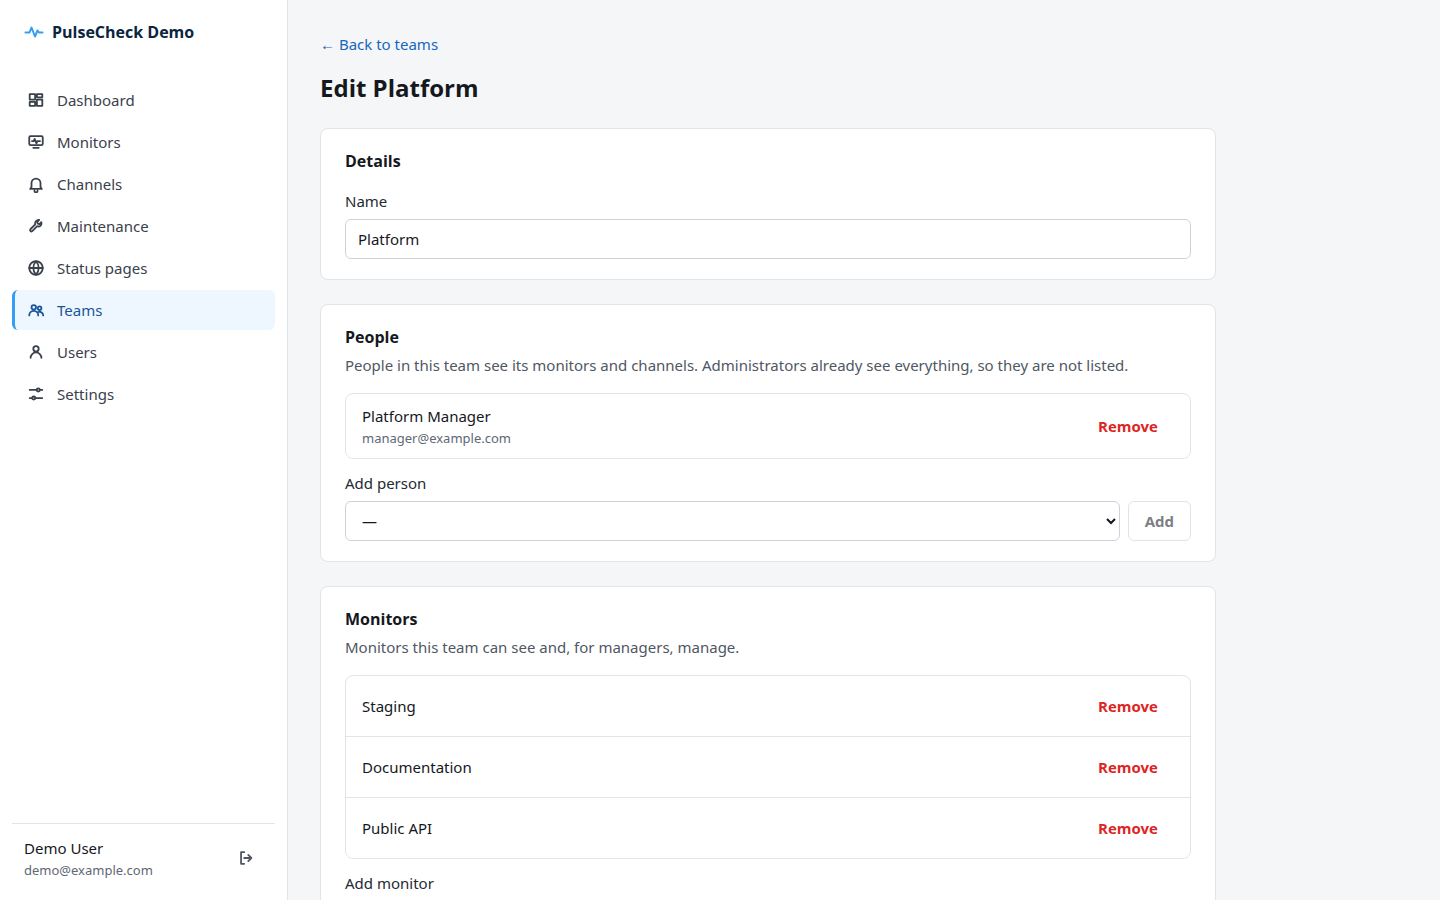
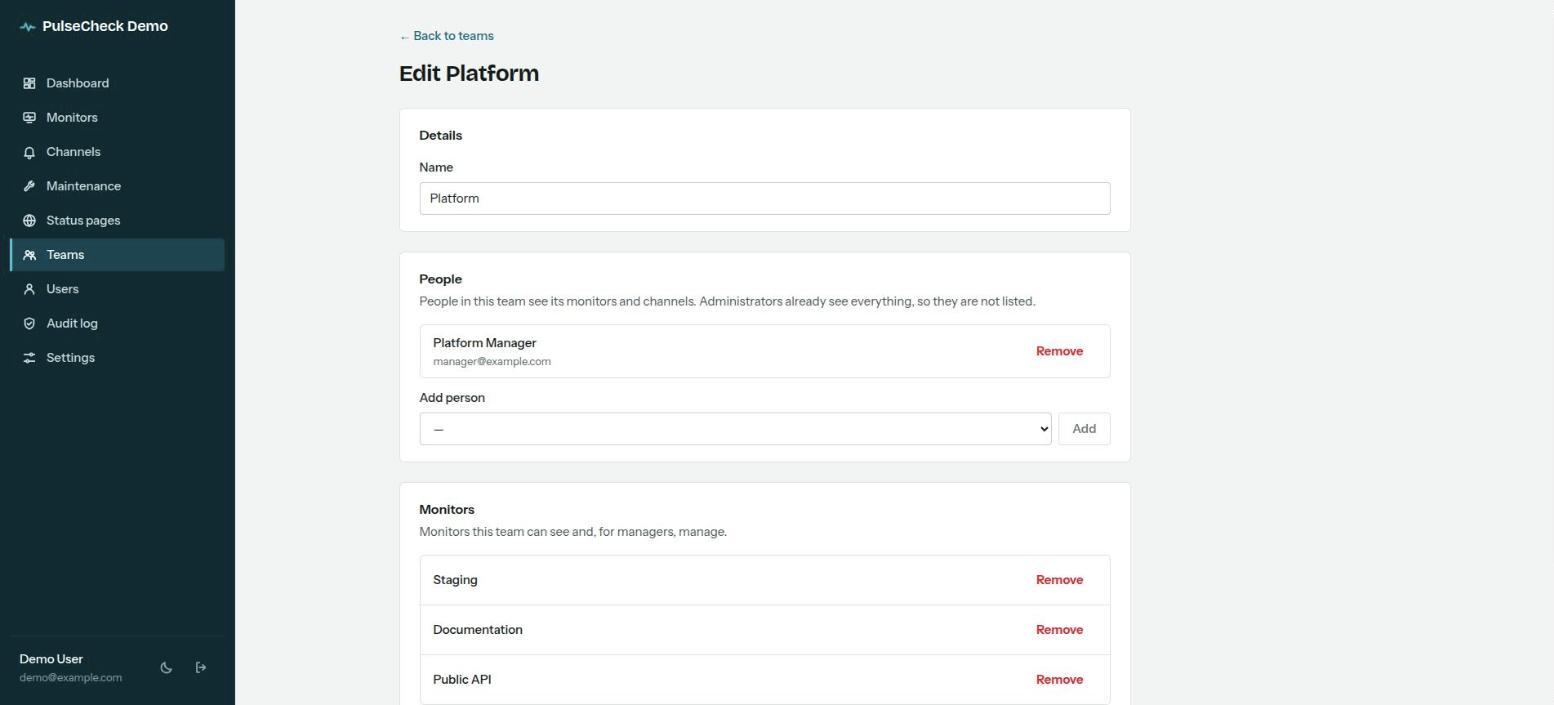
fix: primeira consolidação horária cobre o histórico retido e screenshots novas
Com a tabela horária vazia, a consolidação olhava só as últimas três horas
e os gráficos de 7 e 30 dias do dashboard ficavam quase vazios depois de
instalar ou atualizar. As screenshots do README passam a mostrar a nova
identidade visual, e o arquivo de heartbeat do scheduler, versionado por
engano, volta a ser ignorado.

diff --git a/back/tests/Feature/Dashboard/RollUpHourlyStatsTest.php b/back/tests/Feature/Dashboard/RollUpHourlyStatsTest.php
@@ -48,6 +48,20 @@ class RollUpHourlyStatsTest extends TestCase
         $this->assertSame(290, $row->p95_latency_ms);
     }
 
+    public function test_first_run_rolls_up_every_closed_hour_still_in_history(): void
+    {
+        $monitor = Monitor::factory()->create();
+        $this->checkAt($monitor, CarbonImmutable::parse('2026-10-12 08:30:00'));
+        $this->checkAt($monitor, CarbonImmutable::parse('2026-10-18 10:30:00'));
+
+        $this->artisan('metrics:rollup')->assertSuccessful();
+
+        $this->assertSame(
+            ['2026-10-12 08:00:00', '2026-10-18 10:00:00'],
+            MonitorHourlyStat::query()->orderBy('hour')->get()->map(fn ($row) => $row->hour->utc()->format('Y-m-d H:i:s'))->all(),
+        );
+    }
+
     public function test_running_again_recomputes_the_hour_without_duplicating(): void
     {
         $monitor = Monitor::factory()->create();

diff --git a/back/app/Actions/RollUpHourlyStats.php b/back/app/Actions/RollUpHourlyStats.php
@@ -14,11 +14,9 @@ class RollUpHourlyStats
         $to = CarbonImmutable::now('UTC')->startOfHour();
         $from = $to->subHours($hours);
         $latestHour = MonitorHourlyStat::query()->max('hour');
-
-        if ($latestHour !== null) {
-            $catchUpFrom = CarbonImmutable::parse($latestHour)->utc()->addHour()->max($to->subDays((int) config('pulsecheck.history_retention_days')));
-            $from = $from->min($catchUpFrom);
-        }
+        $retainedFrom = $to->subDays((int) config('pulsecheck.history_retention_days'));
+        $catchUpFrom = $latestHour === null ? $retainedFrom : CarbonImmutable::parse($latestHour)->utc()->addHour()->max($retainedFrom);
+        $from = $from->min($catchUpFrom);
 
         $stats = HourlyStats::aggregate(DB::table('check_results')
             ->where('started_at', '>=', $from)

diff --git a/CHANGELOG.md b/CHANGELOG.md
@@ -4,9 +4,15 @@ All notable changes are listed here. Versions follow [Semantic Versioning](https
 
 ## 2.0.1 — 2026-11-11
 
+### Changed
+
+- New visual identity: teal palette, Instrument Sans and Bricolage Grotesque fonts (bundled, no external requests), a dark navigation panel and a new icon.
+- Pages reuse live data fetched in the last 30 seconds when you navigate back to them, instead of loading everything again.
+
 ### Fixed
 
 - Health checks for the `queue` and `reverb` services, so `docker compose up --wait` succeeds. The 2.0.0 release images were never published because of this; 2.0.1 is the first published 2.x release.
+- The first hourly metrics rollup now covers all retained history, so 7- and 30-day dashboard charts are complete right after installing or updating.
 
 ## 2.0.0 — 2026-11-11
 
